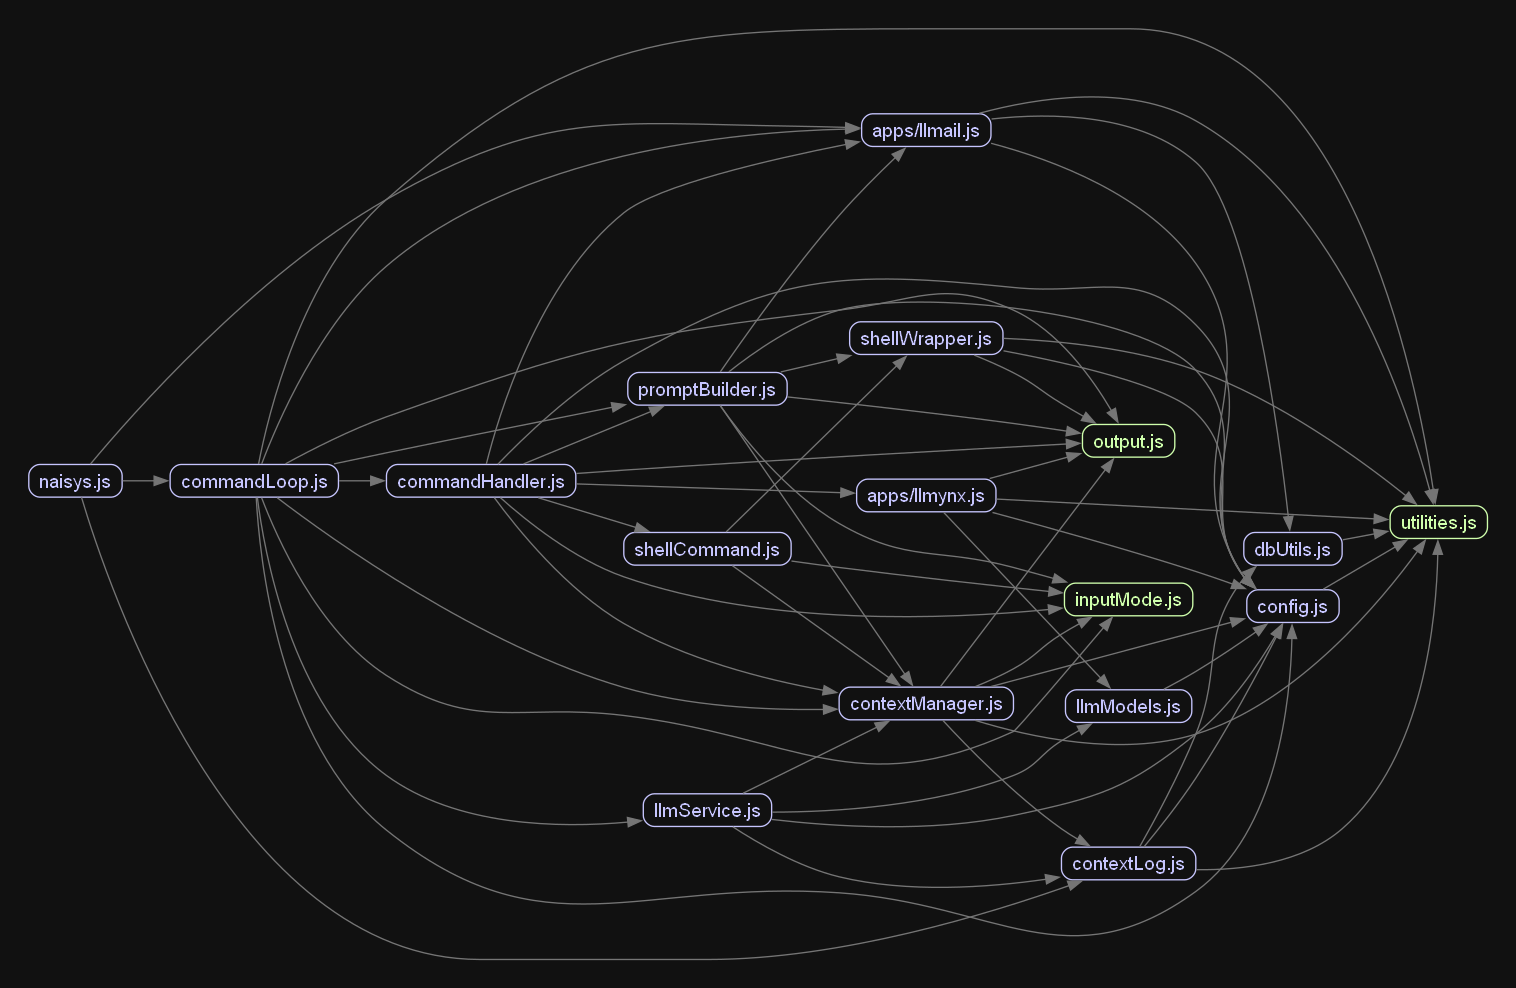
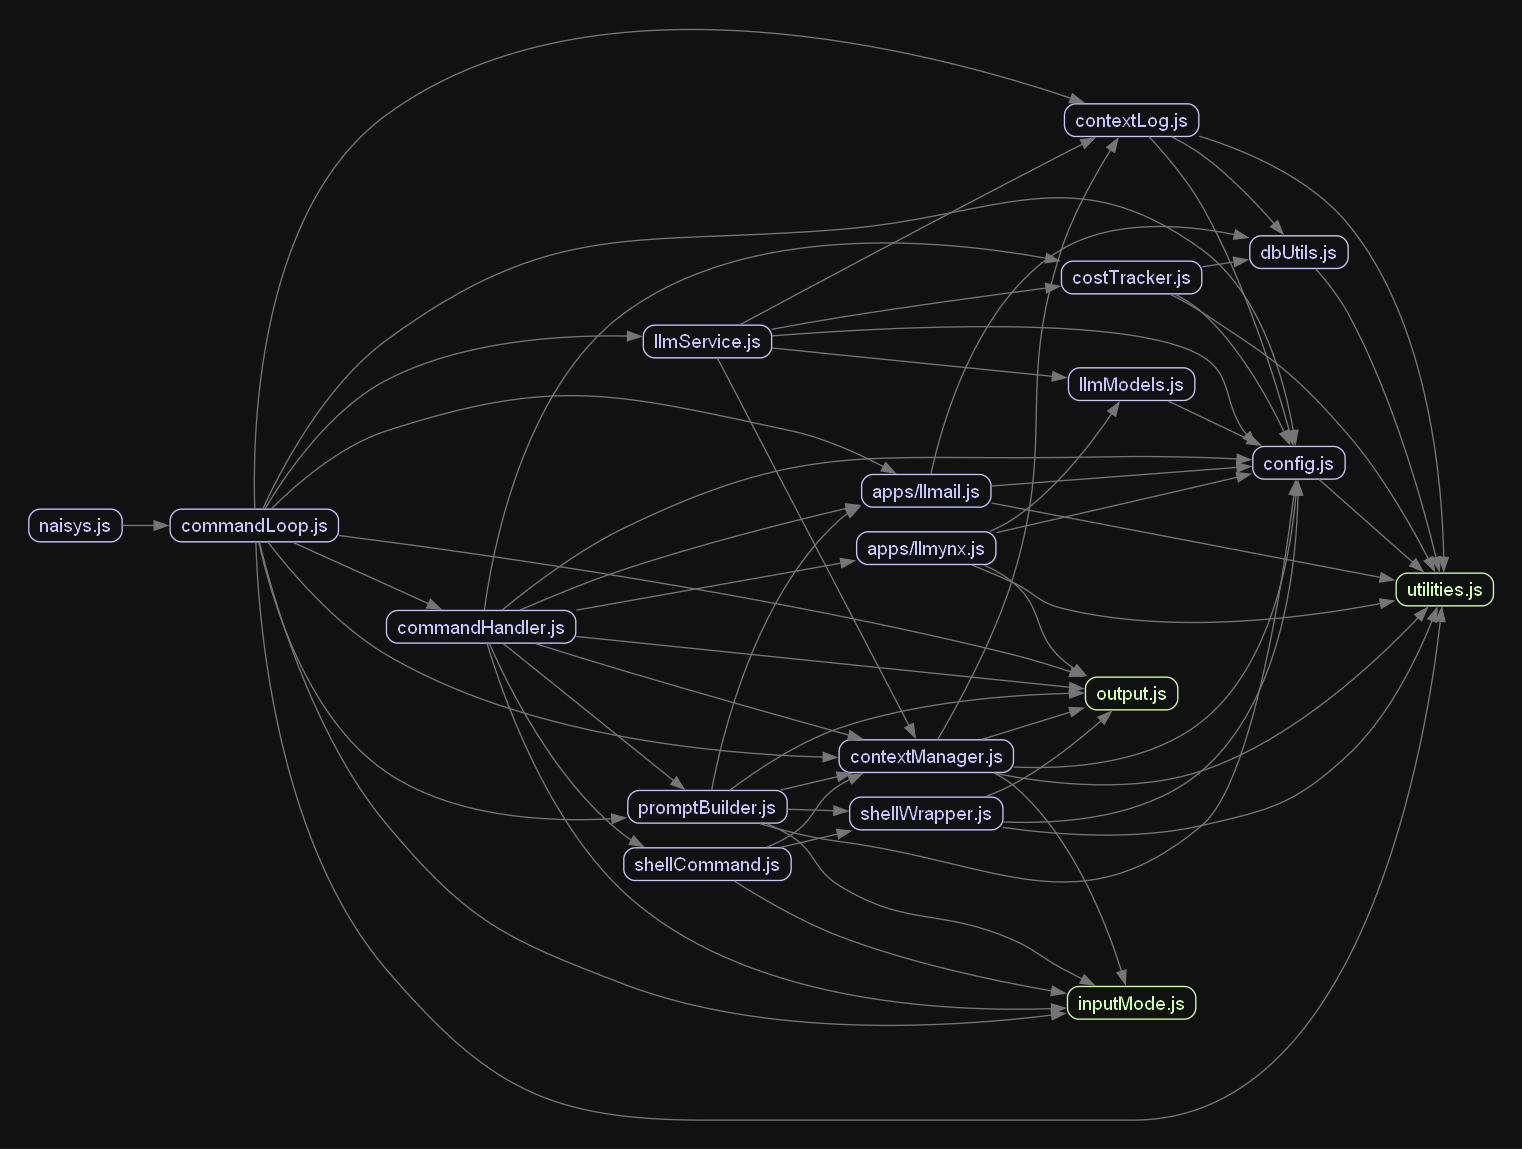
Added cost tracking Added cost limits for the system as a whole Updated int() functions to correctly run when module itself is initialized

diff --git a/src/llmService.ts b/src/llmService.ts
@@ -3,9 +3,15 @@ import OpenAI from "openai";
 import * as config from "./config.js";
 import { LlmRole } from "./contextLog.js";
 import * as contextManager from "./contextManager.js";
+import * as costTracker from "./costTracker.js";
 import { getLLModel } from "./llmModels.js";
 
 export async function send(): Promise<string> {
+  const currentTotalCost = await costTracker.getTotalCosts();
+  if (config.costLimitDollars < currentTotalCost) {
+    throw `LLM Service: Cost limit of $${config.costLimitDollars} reached`;
+  }
+
   const model = getLLModel(config.agent.consoleModel);
 
   if (model.key === "google") {
@@ -44,6 +50,16 @@ async function sendWithOpenAiCompatible(): Promise<string> {
       })),
     ],
   });
+
+  // Total up costs, prices are per 1000 tokens
+  if (chatCompletion.usage) {
+    const cost =
+      chatCompletion.usage.prompt_tokens * model.inputCost +
+      chatCompletion.usage.completion_tokens * model.outputCost;
+    await costTracker.recordCost(cost / 1000);
+  } else {
+    throw "LLM Service: Error, no usage data returned from OpenAI API.";
+  }
 
   return chatCompletion.choices[0].message.content || "";
 }
@@ -88,7 +104,20 @@ async function sendWithGoogle(): Promise<string> {
   });
 
   const result = await chat.sendMessage(lastMessage.content);
-  const response = await result.response;
 
-  return response.text();
+  if (result.response.promptFeedback?.blockReason) {
+    throw `LLM Service: Request Blocked, ${result.response.promptFeedback.blockReason}`;
+  }
+
+  const responseText = result.response.text();
+
+  // Total up cost, per 1000 characters with google
+  // todo: take into account google allows 60 queries per minute for free
+  const cost =
+    lastMessage.content.length * model.inputCost +
+    responseText.length * model.outputCost;
+
+  await costTracker.recordCost(cost / 1000);
+
+  return responseText;
 }

diff --git a/src/config.ts b/src/config.ts
@@ -4,23 +4,14 @@ import * as fs from "fs";
 import yaml from "js-yaml";
 import { valueFromString } from "./utilities.js";
 
-interface AgentConfig {
-  username: string;
-  title: string;
-  consoleModel: string;
-  webModel: string;
-  agentPrompt: string;
-}
-
 program.argument("<agent-path>", "Path to agent configuration file").parse();
 
 dotenv.config();
 
-export const WAKE_ON_MSG = -1; // Should not be changed
-
 export const hostname = "system-01";
 
-export const tokenMax = 4000; // gpt4 has a 8k token max, but also $0.03 per 1k tokens
+/** The number of tokens you want to limit a session to, Independent of the LLM token max */
+export const tokenMax = 4000;
 
 /* .env is used for global configs across naisys, while agent configs for the specific agent */
 
@@ -34,6 +25,11 @@ export const openaiApiKey = getEnv("OPENAI_API_KEY");
 
 export const googleApiKey = getEnv("GOOGLE_API_KEY");
 
+export const costLimitDollars = parseFloat(getEnv("COST_LIMIT_DOLLARS"));
+
+/** Special valur for debugPauseSeconds that means only wake on new mail */
+export const WAKE_ON_MSG = -1;
+
 export const debugPauseSeconds = loadPauseSeconds();
 
 export const agent = loadAgentConfig();
@@ -44,6 +40,14 @@ function getEnv(key: string) {
     throw `Config: Error, .env ${key} is not defined`;
   }
   return value;
+}
+
+interface AgentConfig {
+  username: string;
+  title: string;
+  consoleModel: string;
+  webModel: string;
+  agentPrompt: string;
 }
 
 function loadAgentConfig() {

diff --git a/src/costTracker.ts b/src/costTracker.ts
@@ -1,0 +1,54 @@
+import { Database } from "sqlite";
+import * as config from "./config.js";
+import * as dbUtils from "./dbUtils.js";
+import { naisysToHostPath } from "./utilities.js";
+
+const _dbFilePath = naisysToHostPath(
+  `${config.rootFolder}/var/naisys/costs.db`,
+);
+
+await init();
+
+async function init() {
+  const newDbCreated = await dbUtils.initDatabase(_dbFilePath);
+
+  await usingDatabase(async (db) => {
+    if (!newDbCreated) {
+      return;
+    }
+
+    const createTables = [
+      `CREATE TABLE Costs (
+          id INTEGER PRIMARY KEY,
+          date TEXT NOT NULL, 
+          username TEXT NOT NULL,
+          cost REAL NOT NULL
+      )`,
+    ];
+
+    for (const createTable of createTables) {
+      await db.exec(createTable);
+    }
+  });
+}
+
+export async function recordCost(cost: number) {
+  await usingDatabase(async (db) => {
+    await db.run(
+      `INSERT INTO Costs (date, username, cost) VALUES (datetime('now'), ?, ?)`,
+      [config.agent.username, cost],
+    );
+  });
+}
+
+export async function getTotalCosts() {
+  return usingDatabase(async (db) => {
+    const result = await db.get(`SELECT sum(cost) as total FROM Costs`);
+
+    return result.total;
+  });
+}
+
+async function usingDatabase<T>(run: (db: Database) => Promise<T>): Promise<T> {
+  return dbUtils.usingDatabase(_dbFilePath, run);
+}

diff --git a/src/llmModels.ts b/src/llmModels.ts
@@ -15,6 +15,7 @@ const llmModels: LlmModel[] = [
     baseUrl: undefined,
     name: "gpt-4-0125-preview",
     maxTokens: 128_000,
+    // Prices are per 1000 tokens
     inputCost: 0.01,
     outputCost: 0.03,
   },
@@ -23,6 +24,7 @@ const llmModels: LlmModel[] = [
     baseUrl: undefined,
     name: "gpt-3.5-turbo-0125",
     maxTokens: 16_000,
+    // Prices are per 1000 tokens
     inputCost: 0.0005,
     outputCost: 0.0015,
   },
@@ -39,8 +41,9 @@ const llmModels: LlmModel[] = [
     baseUrl: undefined,
     name: "gemini-pro",
     maxTokens: 8_000,
-    inputCost: 0,
-    outputCost: 0,
+    // 60 queries per minute free then the prices below are per 1000 characters
+    inputCost: 0.000125,
+    outputCost: 0.000375,
   },
 ];
 

diff --git a/src/commandHandler.ts b/src/commandHandler.ts
@@ -4,6 +4,7 @@ import * as llmynx from "./apps/llmynx.js";
 import * as config from "./config.js";
 import * as contextManager from "./contextManager.js";
 import { ContentSource } from "./contextManager.js";
+import * as costTracker from "./costTracker.js";
 import * as inputMode from "./inputMode.js";
 import { InputMode } from "./inputMode.js";
 import * as output from "./output.js";
@@ -136,6 +137,12 @@ export async function consoleInput(
             pauseSeconds,
           };
         }
+        break;
+      }
+
+      case "cost": {
+        const totalCost = await costTracker.getTotalCosts();
+        output.comment(`Total cost so far: $${totalCost.toFixed(2)}`);
         break;
       }
 

diff --git a/src/commandLoop.ts b/src/commandLoop.ts
@@ -62,7 +62,10 @@ export async function run() {
         await contextManager.append(prompt, ContentSource.StartPrompt);
 
         const waitingMessage =
-          prompt + chalk[output.OutputColor.loading]("LLM Working...");
+          prompt +
+          chalk[output.OutputColor.loading](
+            `LLM (${config.agent.consoleModel}) Working...`,
+          );
         process.stdout.write(waitingMessage);
 
         const clearWaitingMessage = () => {

diff --git a/src/apps/llmail.ts b/src/apps/llmail.ts
@@ -16,7 +16,9 @@ let _myUserId = -1;
 const _threadTokenMax = config.tokenMax / 2; // So 4000, would be 2000 thread max
 const _messageTokenMax = _threadTokenMax / 5; // Given the above a 400 token max, and 5 big messages per thread
 
-export async function init() {
+await init();
+
+async function init() {
   const newDbCreated = await dbUtils.initDatabase(_dbFilePath);
 
   await usingDatabase(async (db) => {

diff --git a/src/contextManager.ts b/src/contextManager.ts
@@ -23,7 +23,7 @@ export function getSystemMessage() {
   }
 
   const agentPrompt = config.agent.agentPrompt.replace(
-    /\$\{config\.([^\}]+)\}/g,
+    /\$\{config\.([^}]+)\}/g,
     (match, key) => {
       const value = valueFromString(config, key);
       if (value === undefined) {

diff --git a/src/contextLog.ts b/src/contextLog.ts
@@ -28,7 +28,9 @@ const _userLogFilePath = naisysToHostPath(
   `${config.rootFolder}/var/www/logs/${config.agent.username}-log.html`,
 );
 
-export async function init() {
+await init();
+
+async function init() {
   initLogFile(_combinedLogFilePath);
   initLogFile(_userLogFilePath);
 

diff --git a/src/naisys.ts b/src/naisys.ts
@@ -1,9 +1,4 @@
-import * as llmail from "./apps/llmail.js";
 import * as commandLoop from "./commandLoop.js";
-import * as contextLog from "./contextLog.js";
-
-await contextLog.init();
-await llmail.init();
 
 await commandLoop.run();
 
